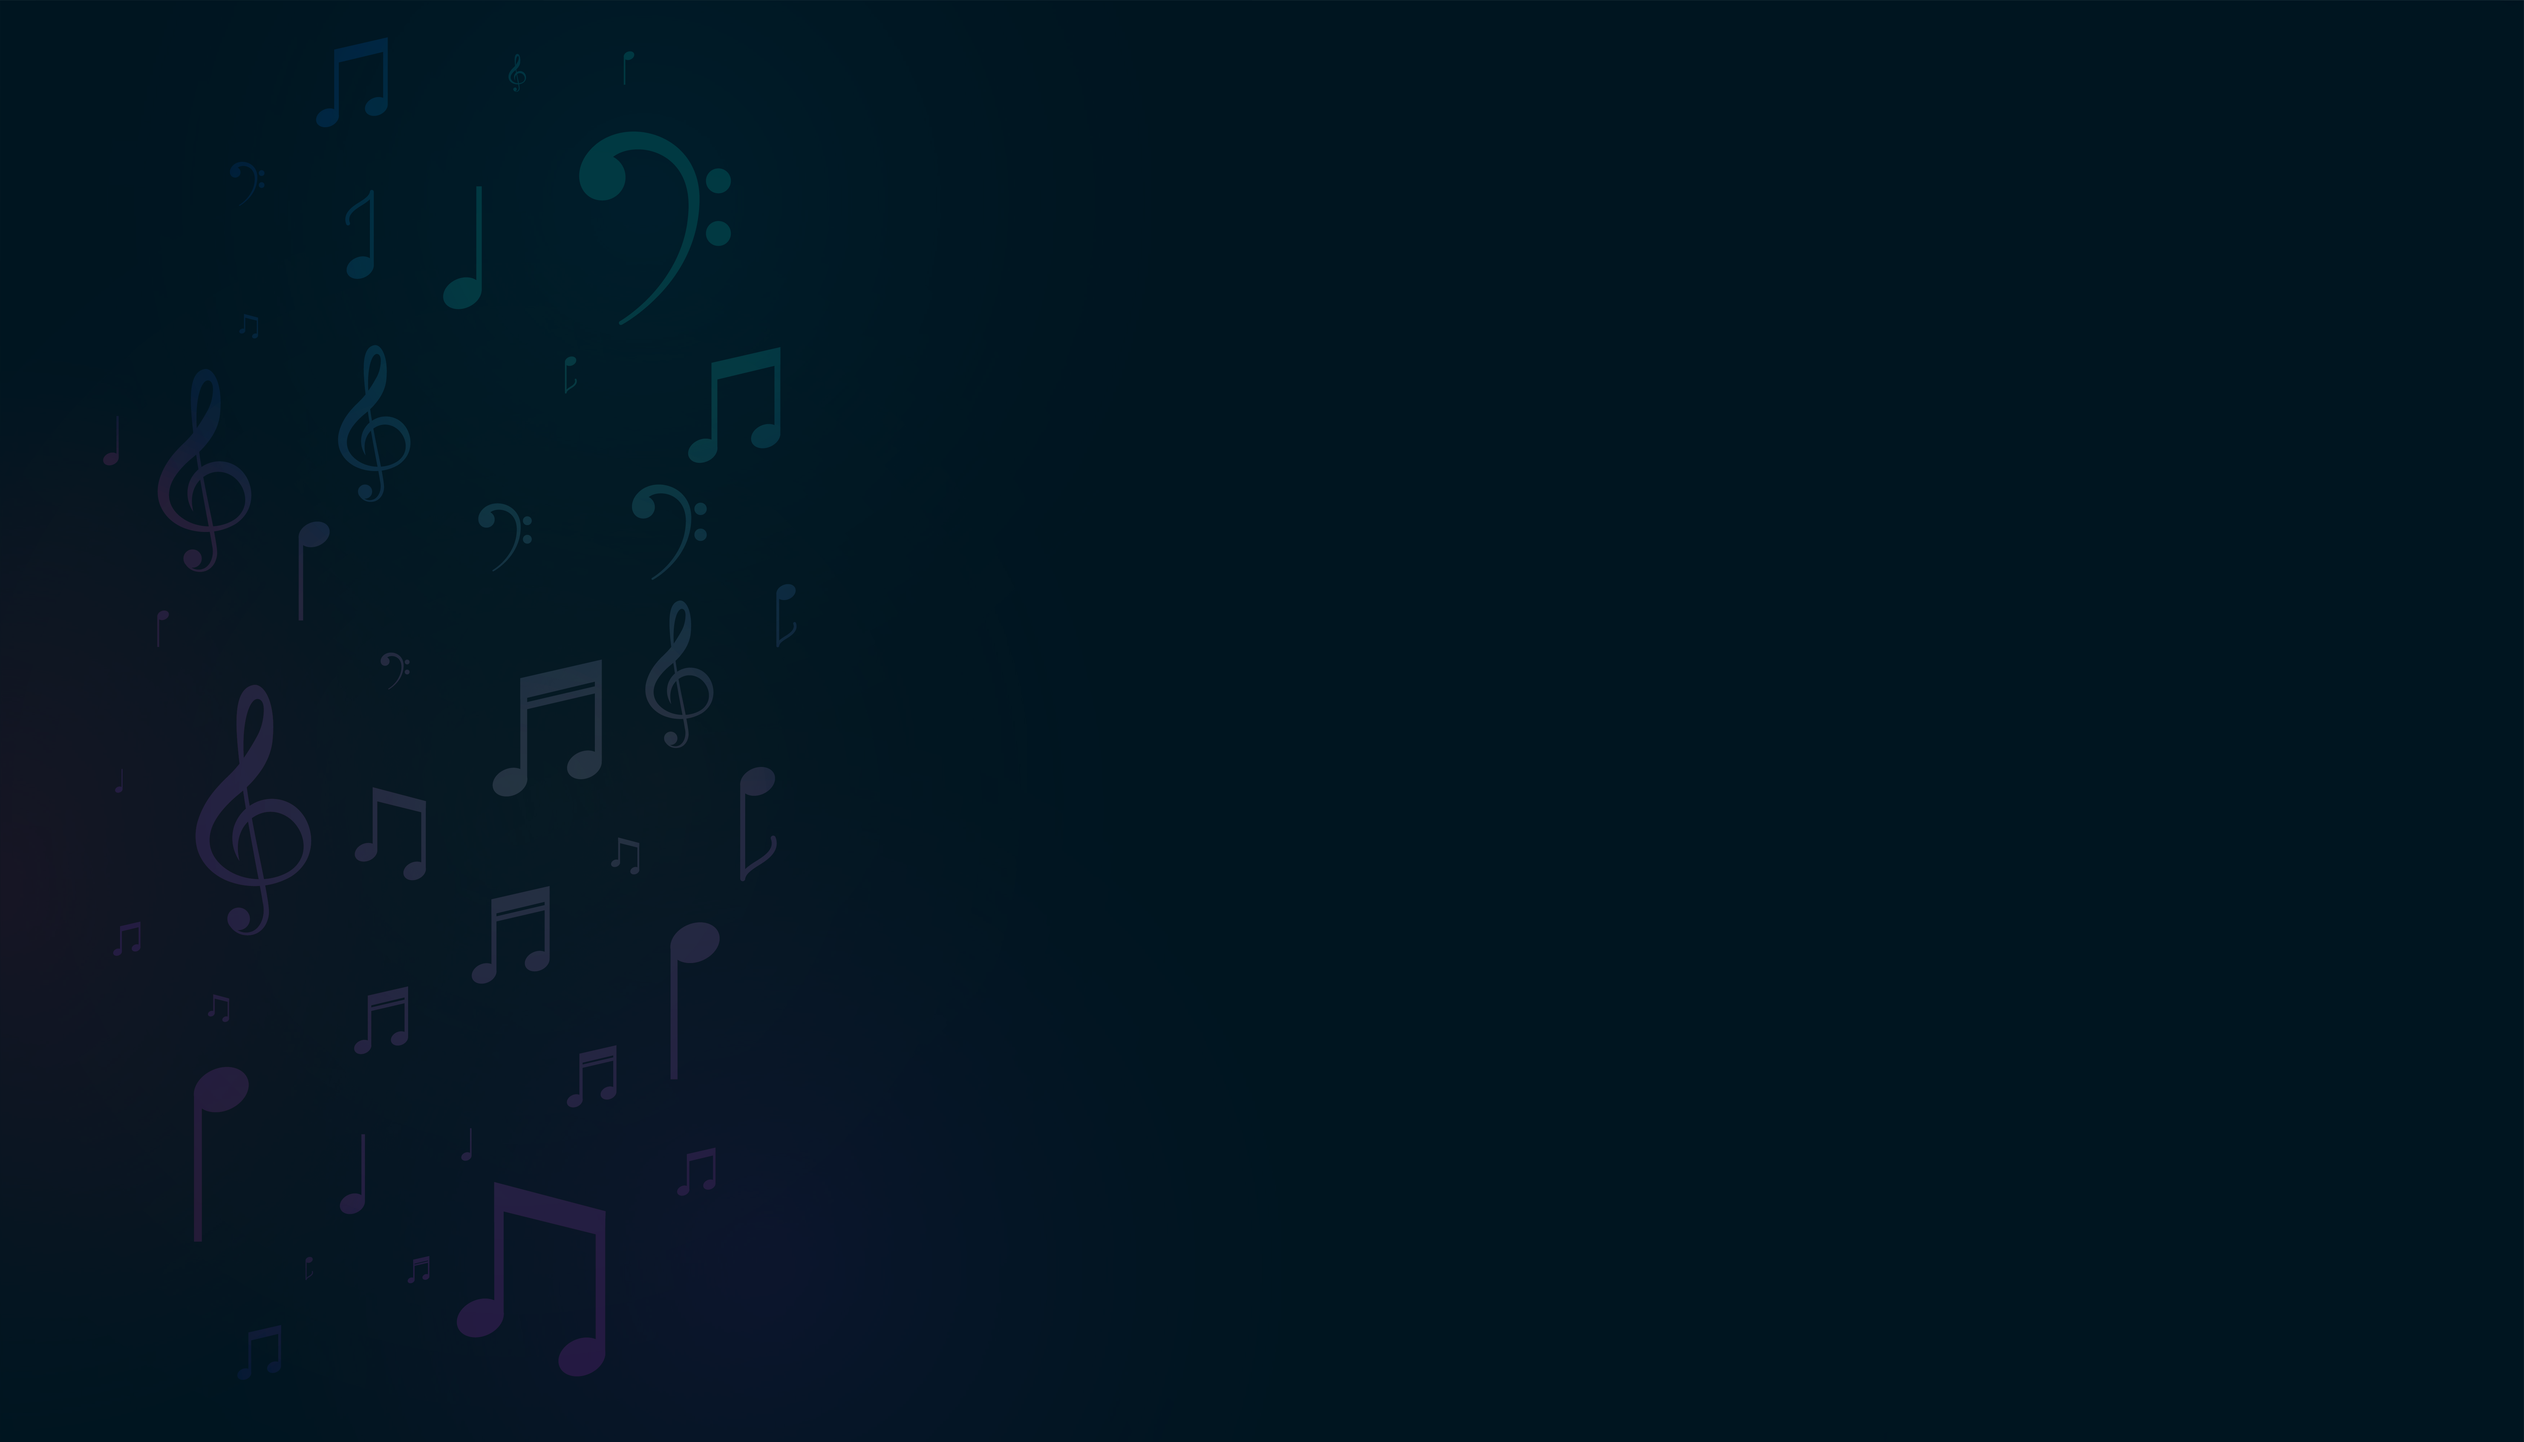
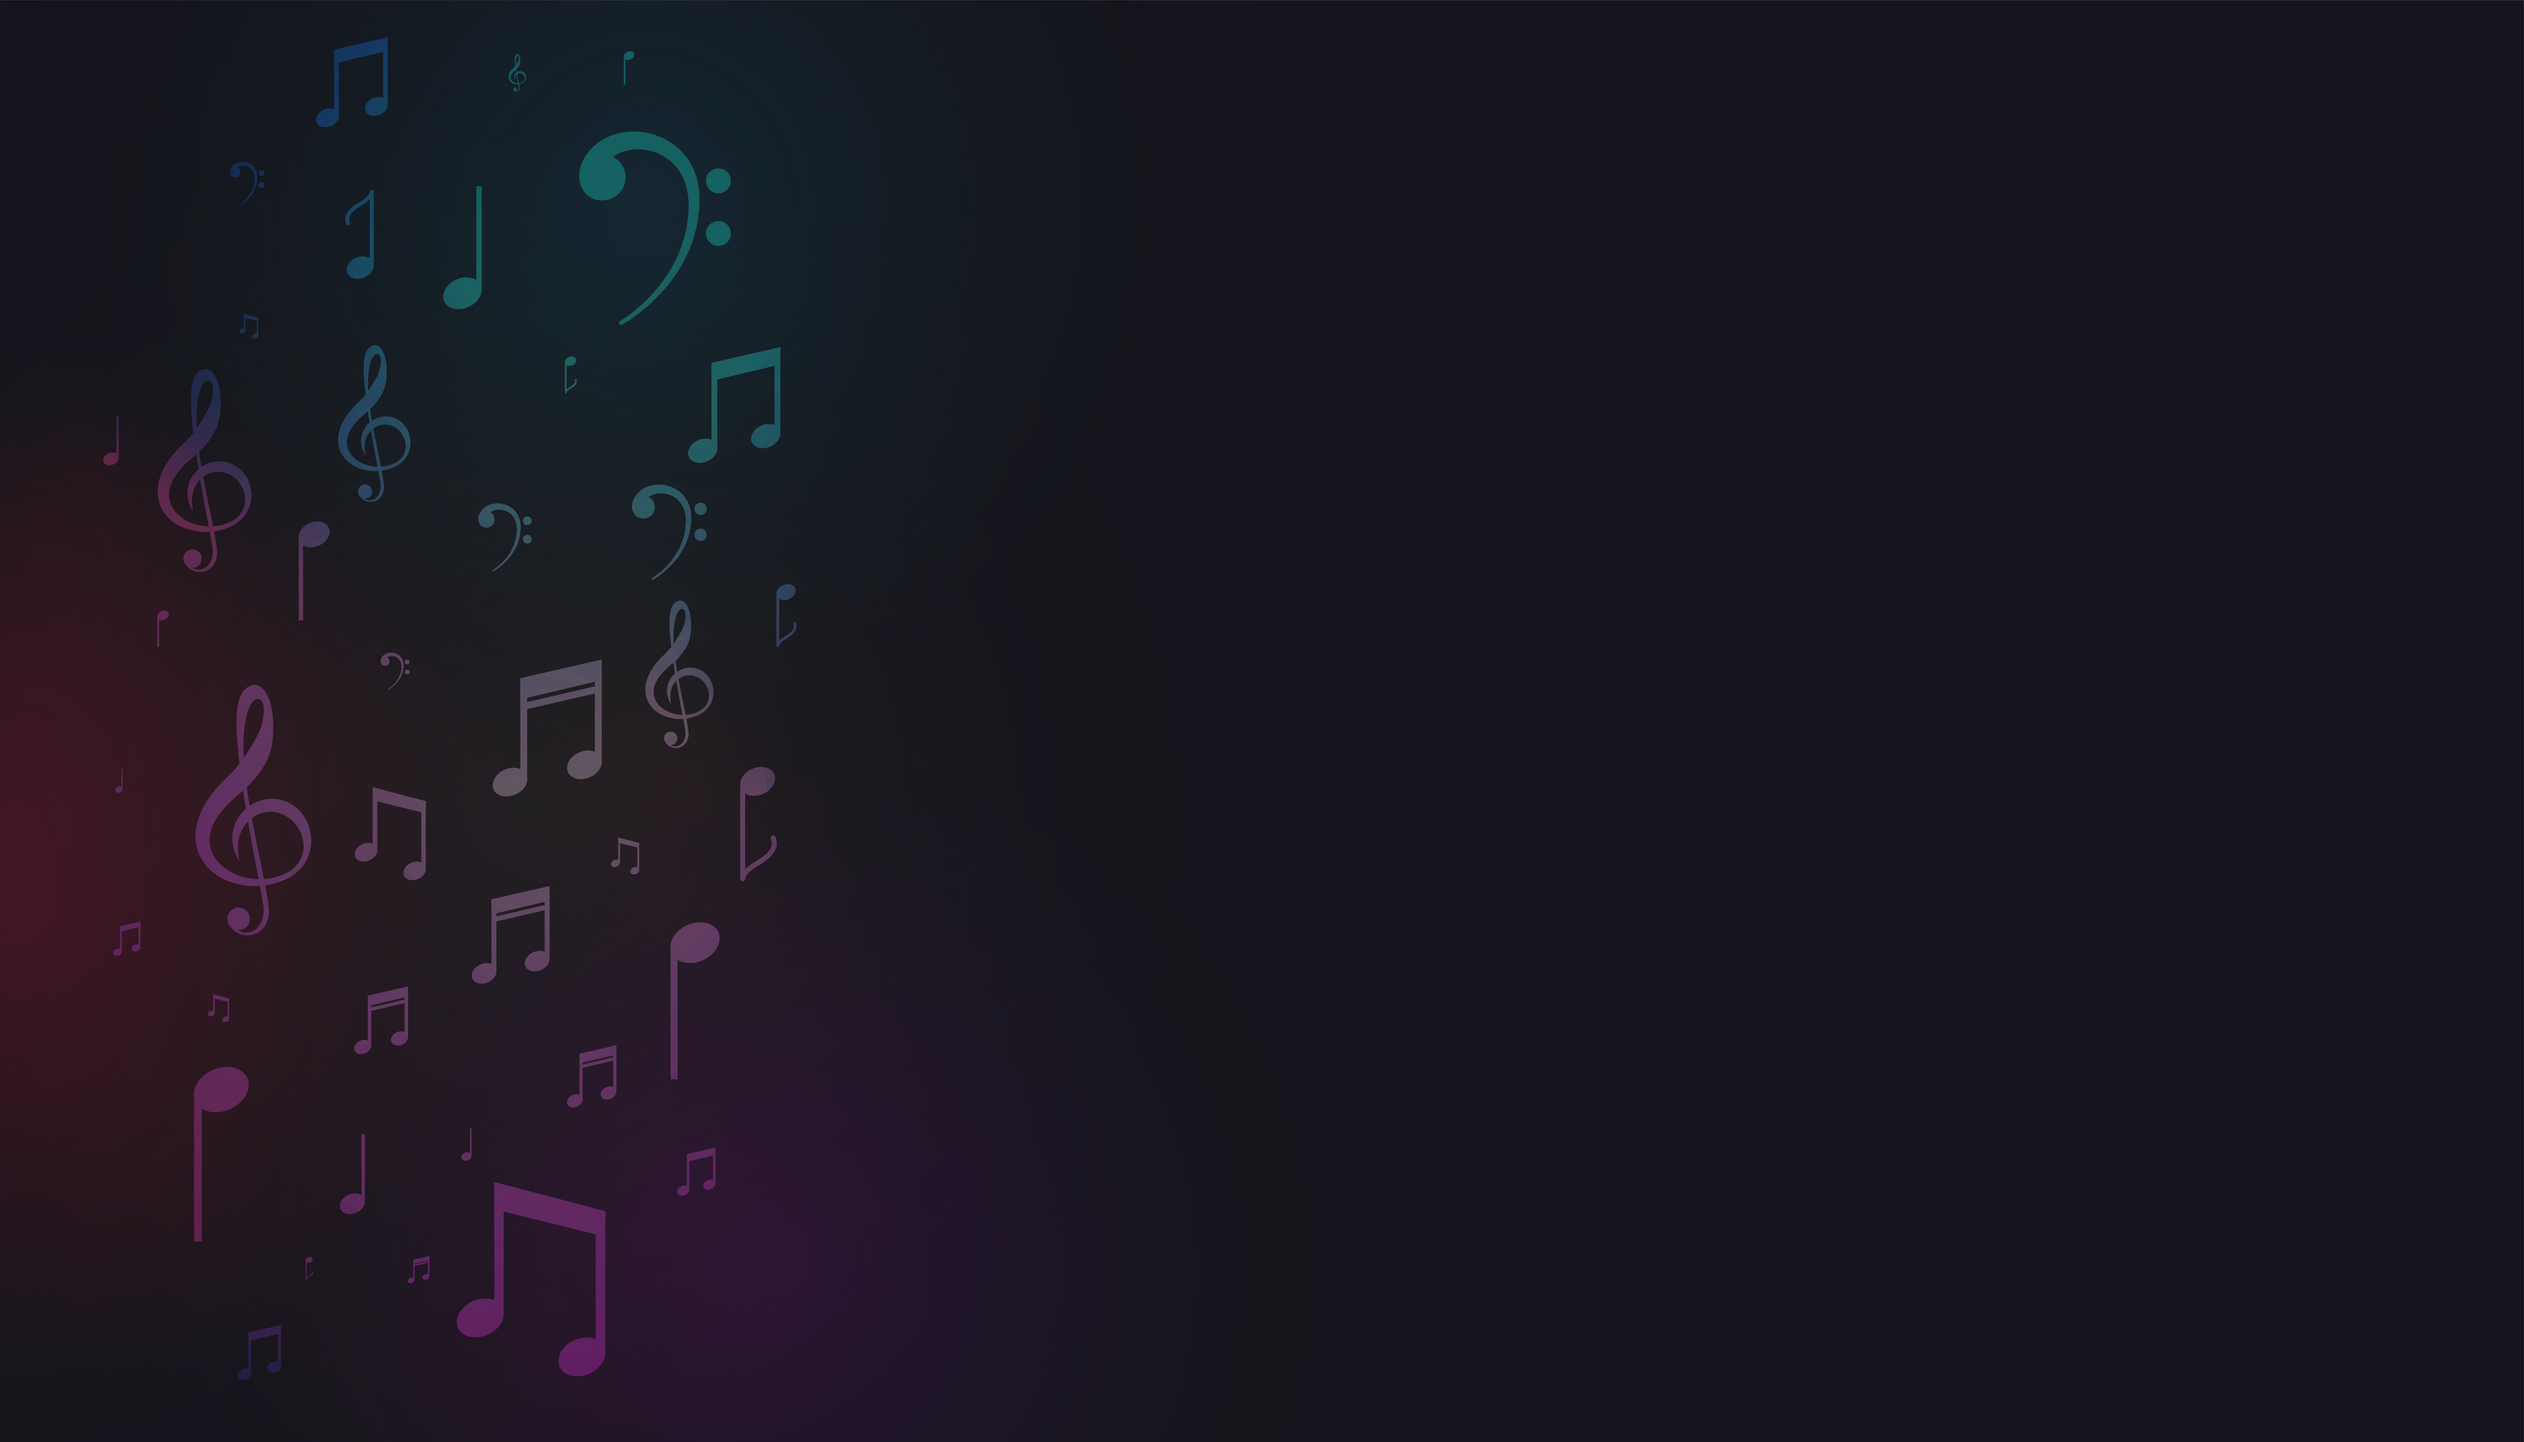
Quelques modification dans home

diff --git a/front/src/views/home/home.css b/front/src/views/home/home.css
@@ -4,7 +4,7 @@
 code couleur:
 #0098da (bleu)
 #a8cf45 (vert jaune)
-#1d1d1e (black teal)
+#1d1d1e (black grey)
 #e6e6e8 (gris)
 */
 
@@ -21,7 +21,7 @@ html {
   display: flex;
   justify-content: center;
   align-items: center;
-  min-height: 580px;
+  min-height: 940px;
   background: url("../../assets/images/background_landing.jpg") no-repeat fixed center bottom;
   background-size: cover;
 }
@@ -192,14 +192,14 @@ html {
     display: block;
     position: absolute;
     height: 36vh;
-    width: 26vw;
+    width: 28vw;
   }
 
   .illustration .disque_ph {
     display: block;
     position: absolute;
     height: 44vh;
-    width: 26vw;
+    width: 28vw;
     z-index: 2;
     top: -28px;
     left: 0px;
@@ -209,7 +209,7 @@ html {
     display: block;
     position: absolute;
     height: 36vh;
-    width: 22vw;
+    width: 24vw;
     top: 0px;
     left: 20px;
     z-index: 3;
@@ -236,7 +236,7 @@ html {
   .description_brand .info_description_brand {
     position: relative;
     top: -82px;
-    left: 146px;
+    left: 116px;
     width: 100%;
     text-align: left;
     display: flex;

diff --git a/front/src/views/home/index.js b/front/src/views/home/index.js
@@ -15,7 +15,7 @@ import background_ph from '../../assets/images/backgroun_alb.png';
 
 function Home() {
   const [screenWidth, setScreenWidth] = useState(getWindowWidth()) //utile pour responsive faq
-  const degre = screenWidth >= 1400 ? [-16, 8, 13] : [0, 0, 0];
+  const degre = screenWidth >= 1400 ? [-16, 4, 13] : [0, 0, 0];
 
   /*Effet pour surveiller si l'écran a rediminuer ou élargit*/
   useEffect(() => {
